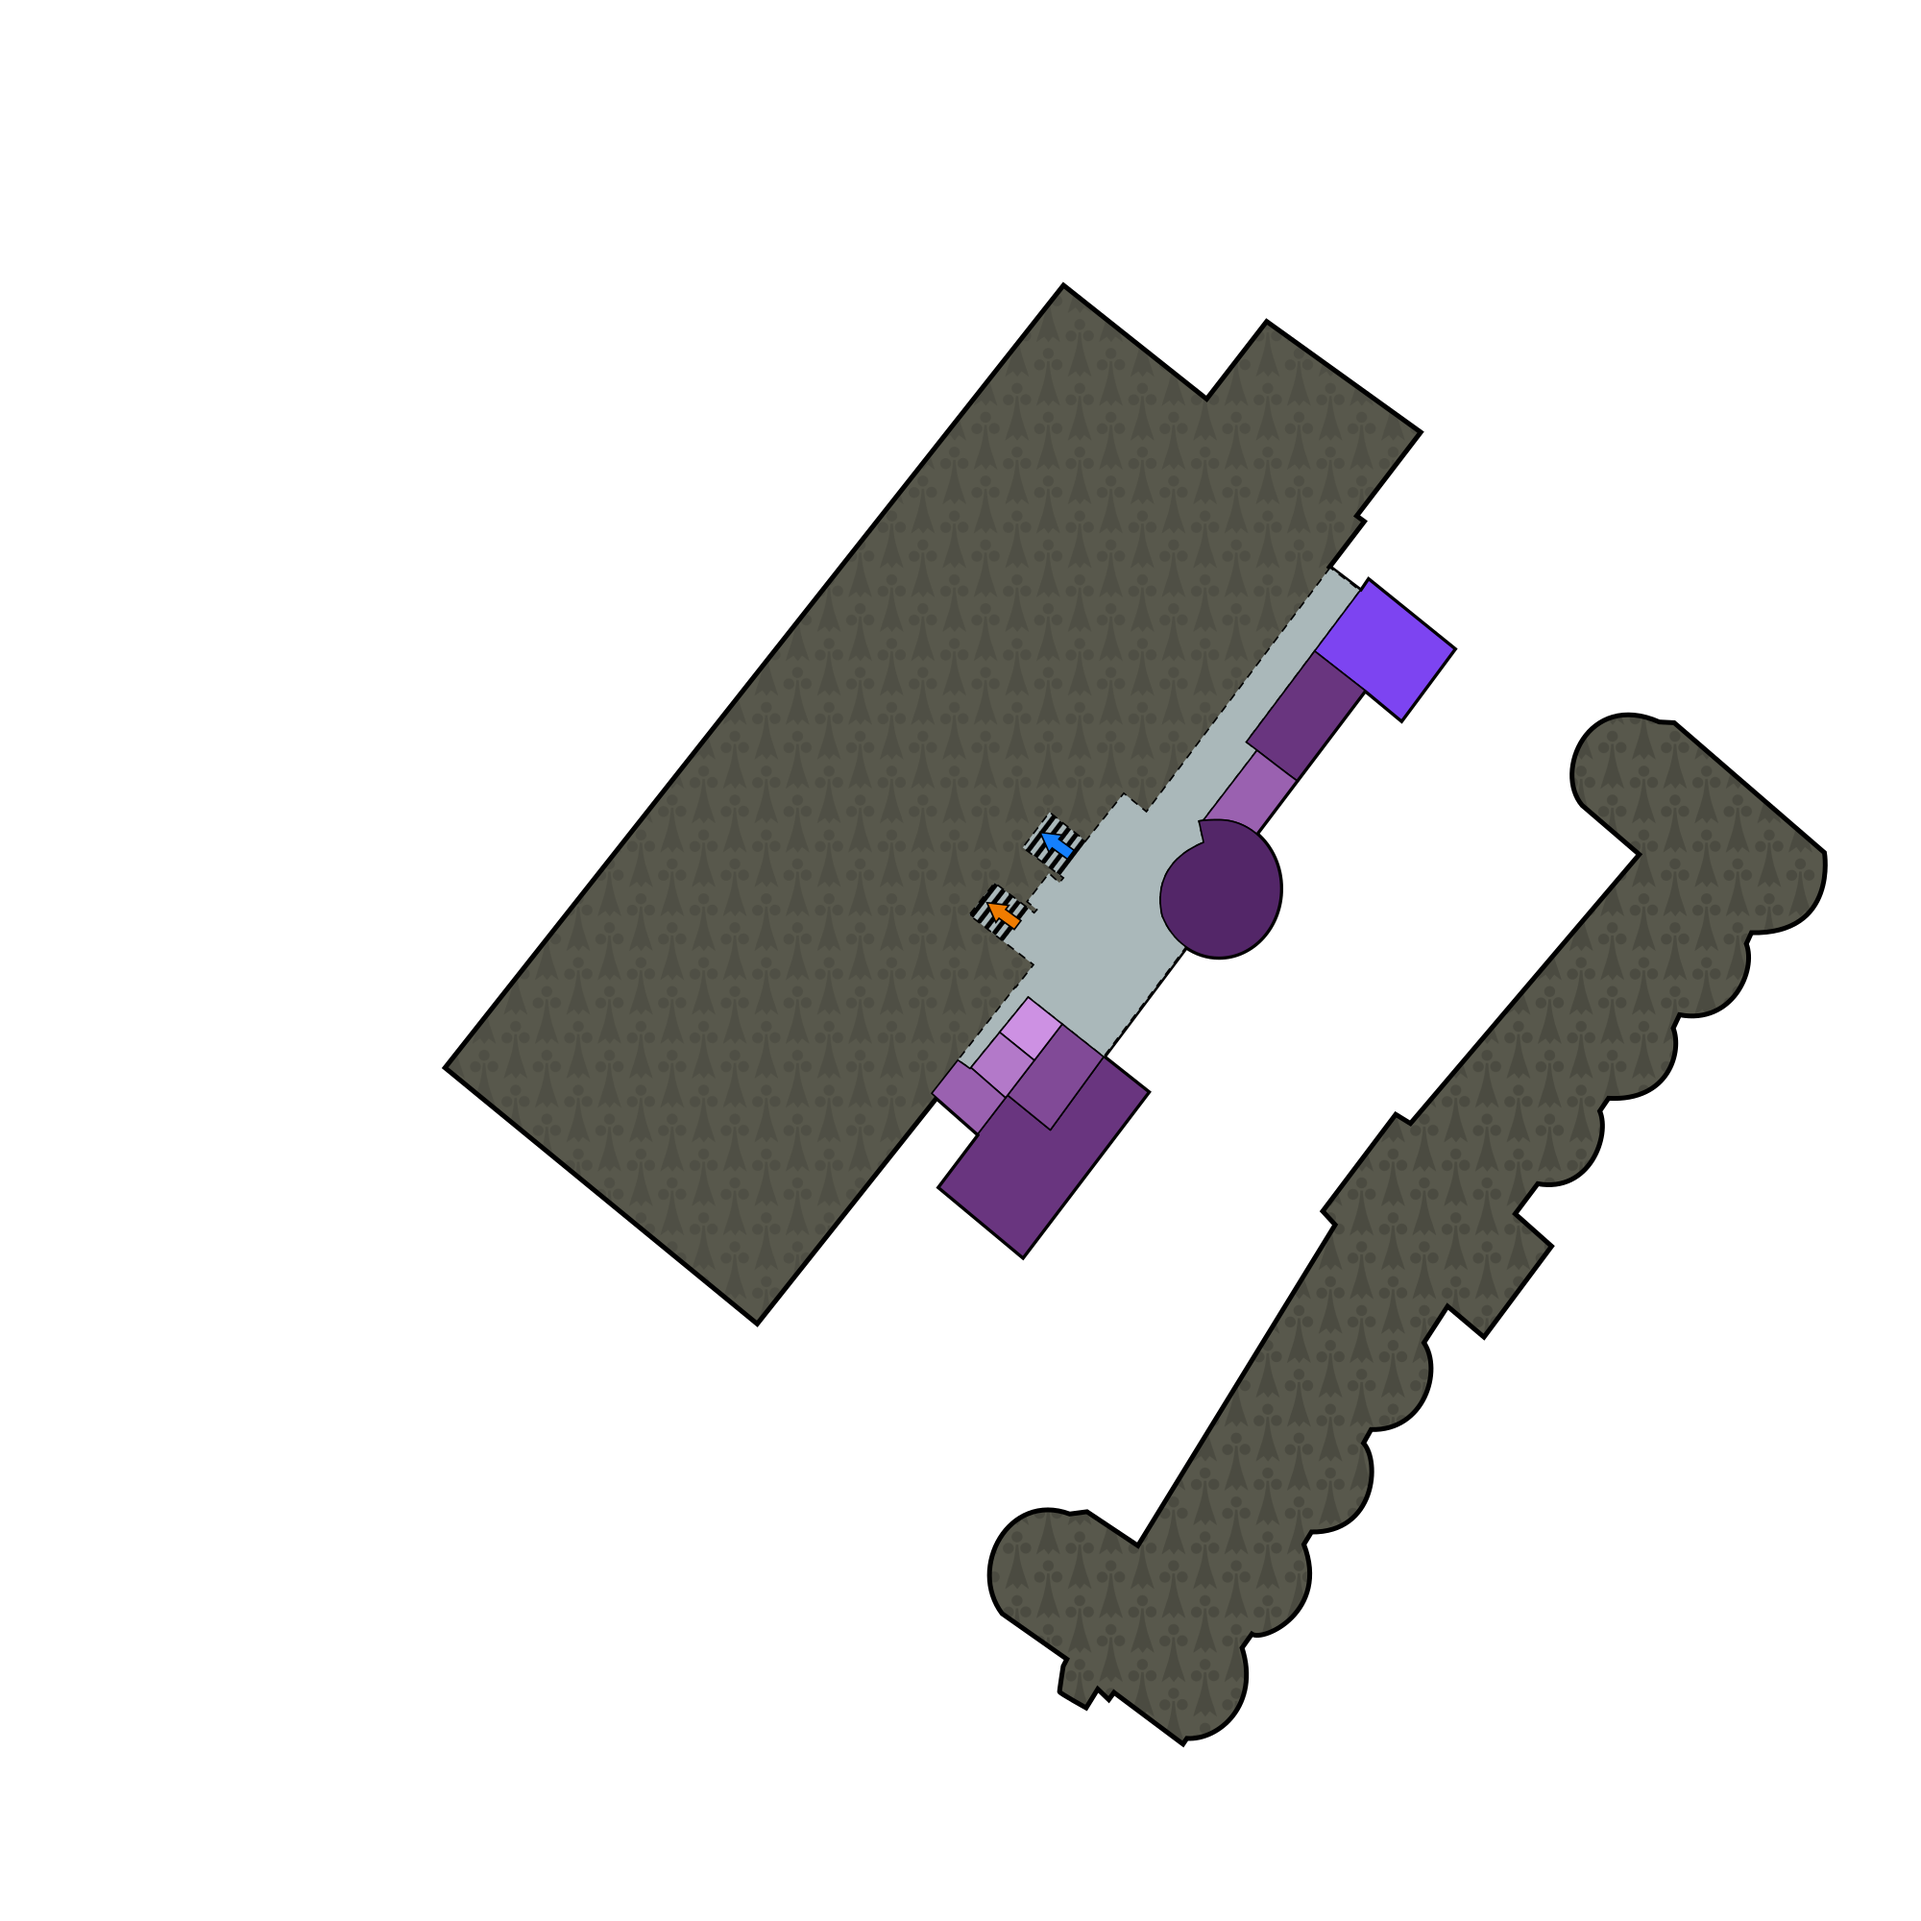
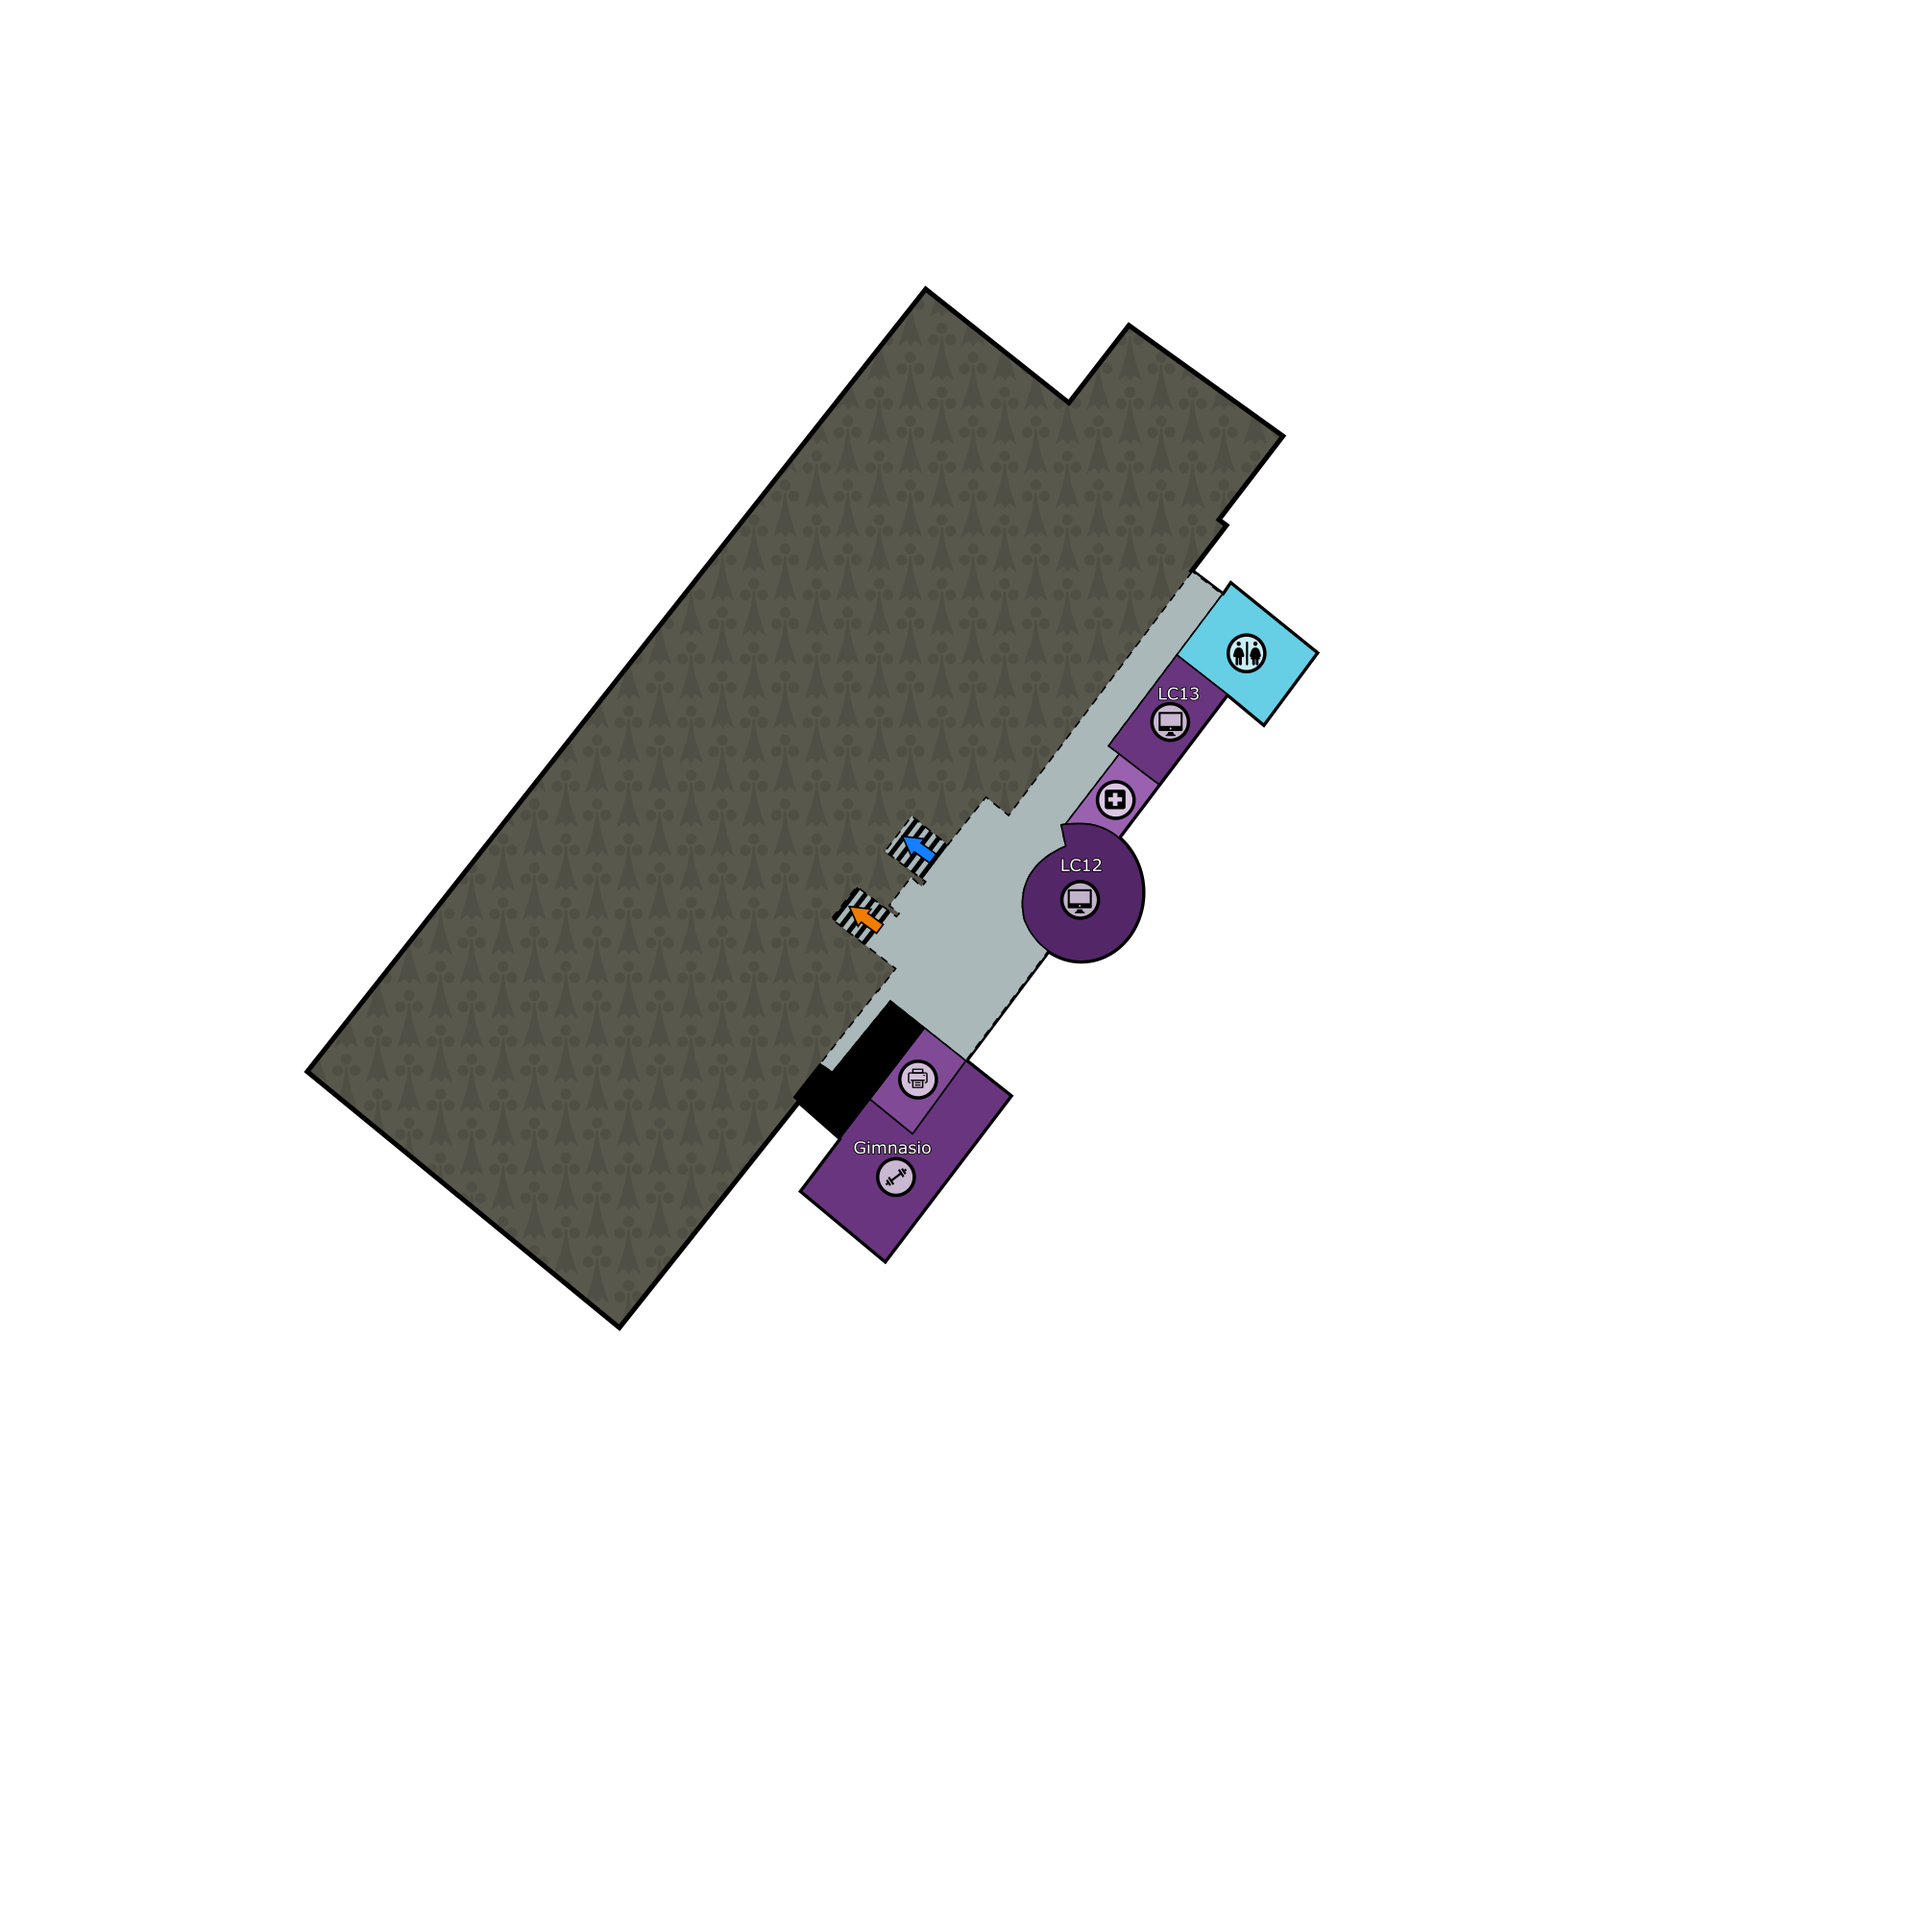
Se agregan iconos, se cambiam svg de edificios, se agrega mas capas y se separan edificios

Changed region(s): [[0.155, 0.155, 0.775, 0.713], [0.496, 0.372, 0.961, 0.93]]

diff --git a/lib/container_map_options.dart b/lib/container_map_options.dart
@@ -34,7 +34,7 @@ class _ContainerMapOptionsState extends State<ContainerMapOptions> {
             name: "Subnivel 2",
             mapsImage: MapsImage(
               id: "SL2",
-              coords: LatLng(28.70324537827747, -106.14056450878434),
+              coords: LatLng(28.70317537827747, -106.14022450878434),
               filename: "assets/png/laboratories_level_s2_03.png",
               size: Size(145, 145),
             ),
@@ -52,9 +52,9 @@ class _ContainerMapOptionsState extends State<ContainerMapOptions> {
             name: "Nivel 0",
             mapsImage: MapsImage(
               id: "L0",
-              coords: LatLng(28.70324537827747, -106.14056450878434),
+              coords: LatLng(28.703230537827747, -106.14046450878434),
               filename: "assets/png/laboratories_level_0_03.png",
-              size: Size(145, 145),
+              size: Size(165, 165),
             ),
           ),
           const FloorModel(
@@ -121,7 +121,7 @@ class _ContainerMapOptionsState extends State<ContainerMapOptions> {
             name: "Nivel 1",
             mapsImage: MapsImage(
               id: "EL1",
-              coords: LatLng(28.70384124721189, -106.13930063844746),
+              coords: LatLng(28.70390124721189, -106.13924063844746),
               filename: "assets/png/classrooms_level_E_1.png",
               size: Size(170, 106),
             ),
@@ -133,6 +133,36 @@ class _ContainerMapOptionsState extends State<ContainerMapOptions> {
               coords: LatLng(28.70384124721189, -106.13930063844746),
               filename: "assets/png/classrooms_level_E_2.png",
               size: Size(170, 106),
+            ),
+          ),
+        ],
+        onChangeBuildingFloor: (BuildingModel building, FloorModel floor) {
+          final MapsImage image = floor.mapsImage;
+          widget.homeController.replaceImageOnMap(
+              idRender: building.idOfMapRender, image: image);
+        },
+      ),
+      BuildingModel(
+        floorToRender: 0,
+        idOfMapRender: "Edificio B",
+        name: "Edificio B - Posgrado",
+        floors: <FloorModel>[
+          const FloorModel(
+            name: "Nivel 1",
+            mapsImage: MapsImage(
+              id: "EL1",
+              coords: LatLng(28.70321537827747, -106.14054450878434),
+              filename: "assets/png/classroom_level_B_0.png",
+              size: Size(145, 145),
+            ),
+          ),
+          const FloorModel(
+            name: "Nivel 2",
+            mapsImage: MapsImage(
+              id: "EL2",
+              coords: LatLng(28.70320537827747, -106.14050450878434),
+              filename: "assets/png/classroom_level_B_0.png",
+              size: Size(130, 130),
             ),
           ),
         ],

diff --git a/lib/Controllers/home_contoller.dart b/lib/Controllers/home_contoller.dart
@@ -70,17 +70,10 @@ class HomeController extends ChangeNotifier {
     notifyListeners();
   }
 
-  Future<void> onMapCreated(GoogleMapController controller) async {
+ onMapCreated(GoogleMapController controller) async {
     debugPrint("THE MAP HAS BEEN CREATED AAAAAAAAAAAAAAAAAAAAAAAAAA");
     // await openClassroomsImage();
-    await loadImageOnMap(
-      idRender: "TEST Salones",
-      image: MapsImage(
-          id: "0",
-          filename: classroomsImageFilename,
-          coords: classroomsPosition,
-          size: classroomsSize),
-    );
+
     // await loadImageOnMap(
     //   image: MapsImage(
     //       id: "1",
